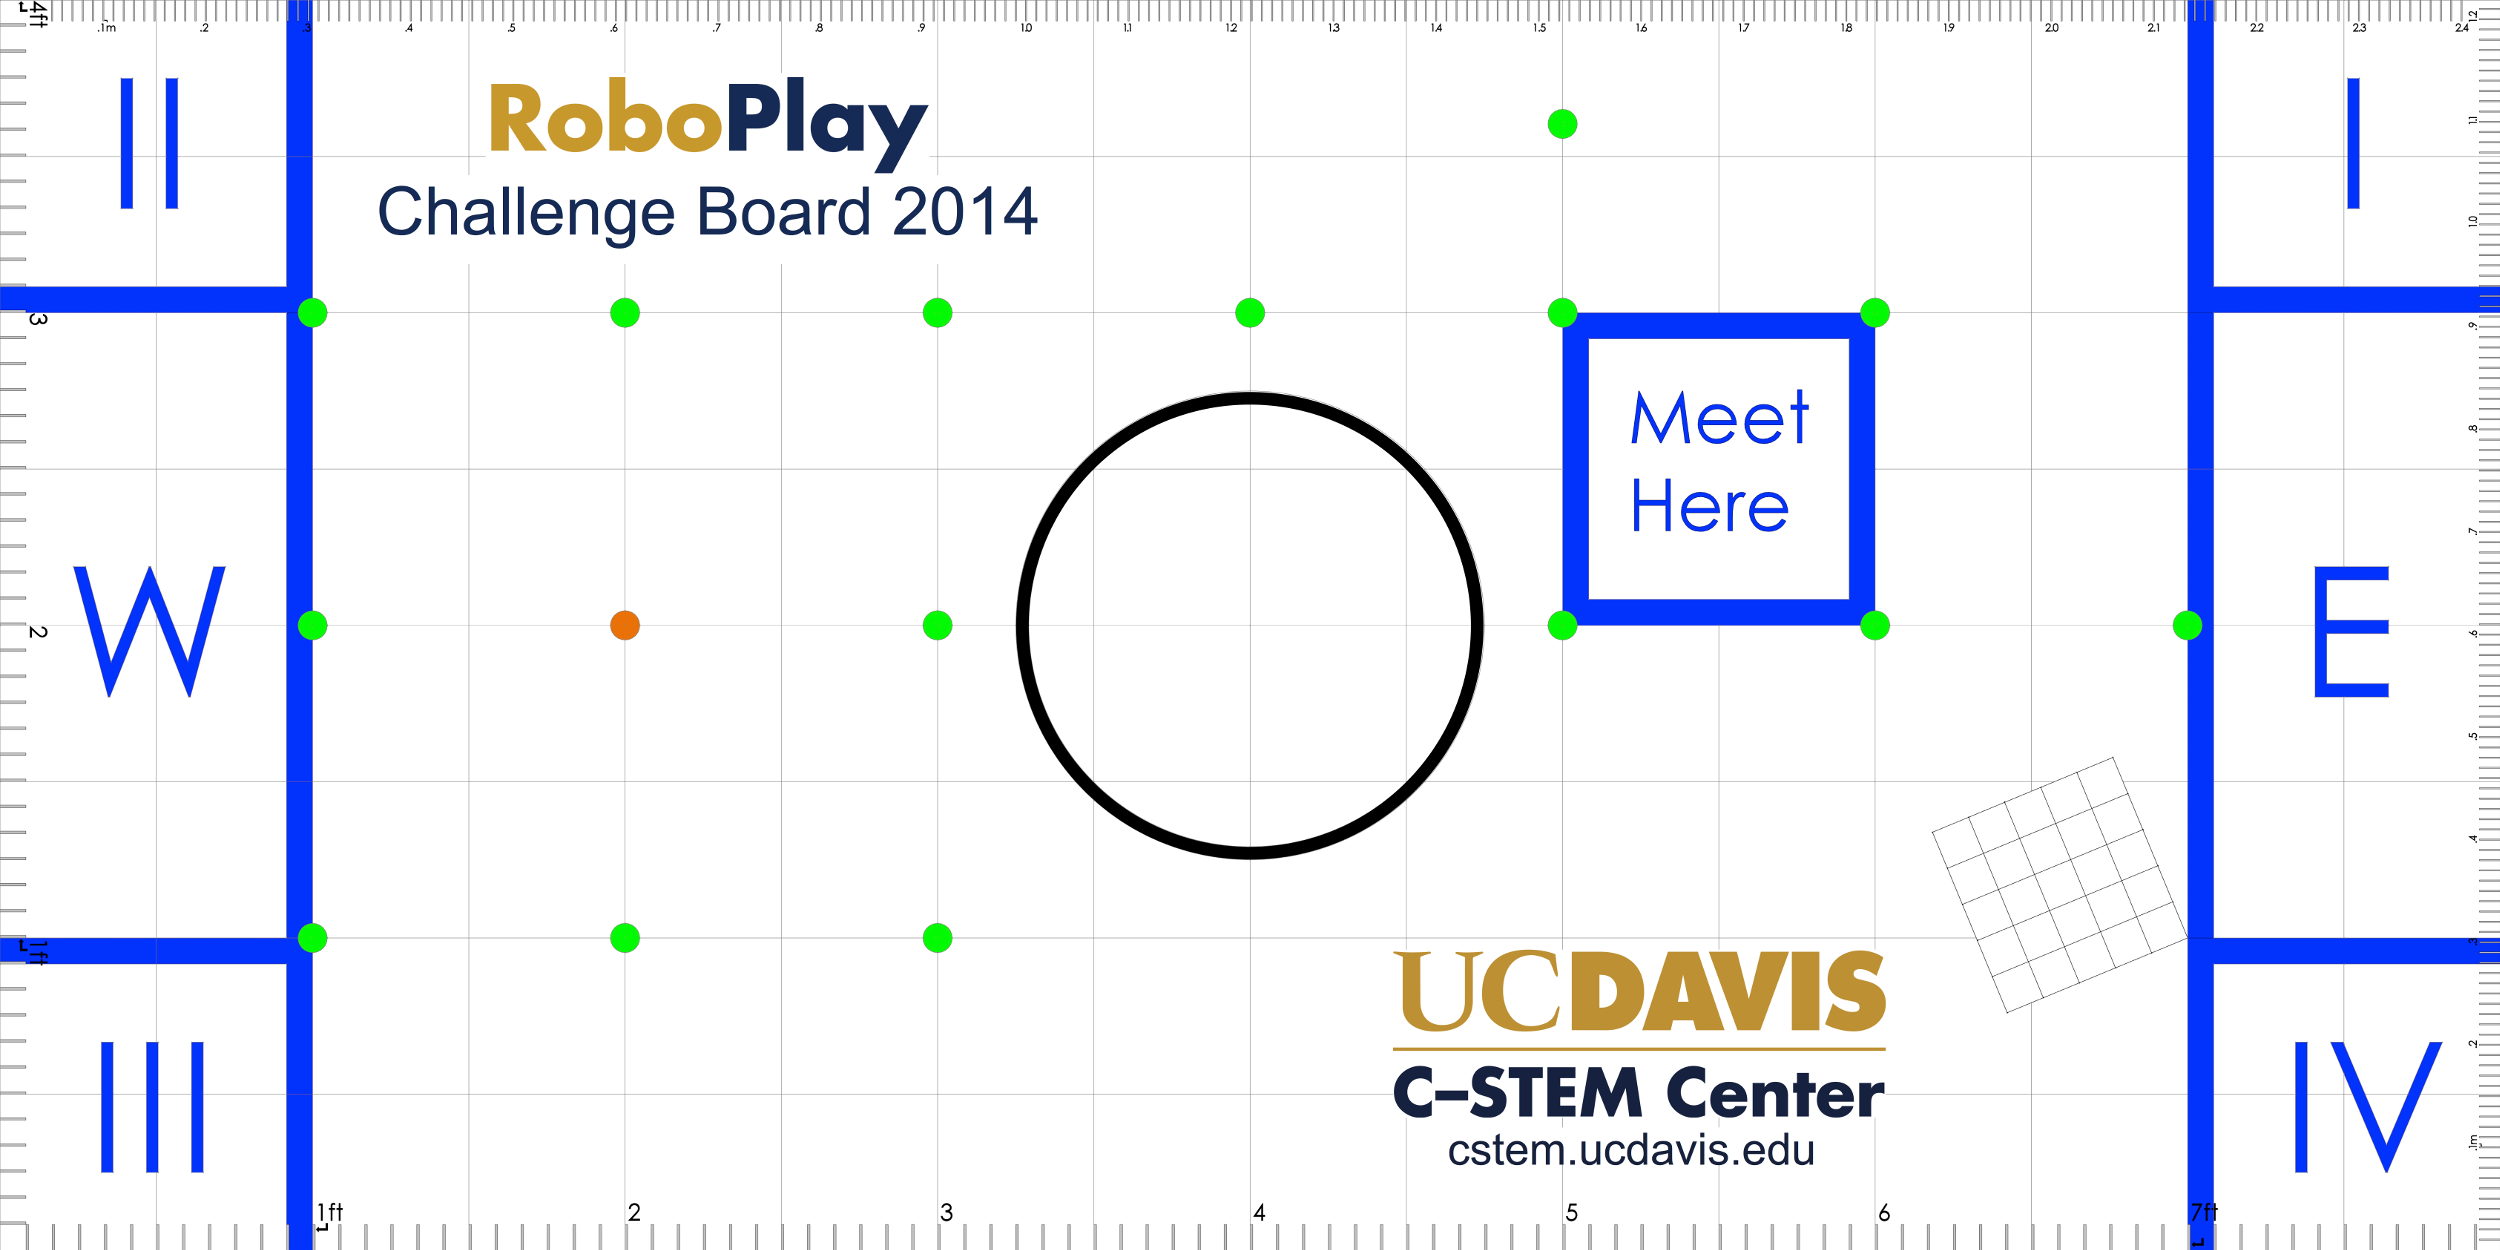
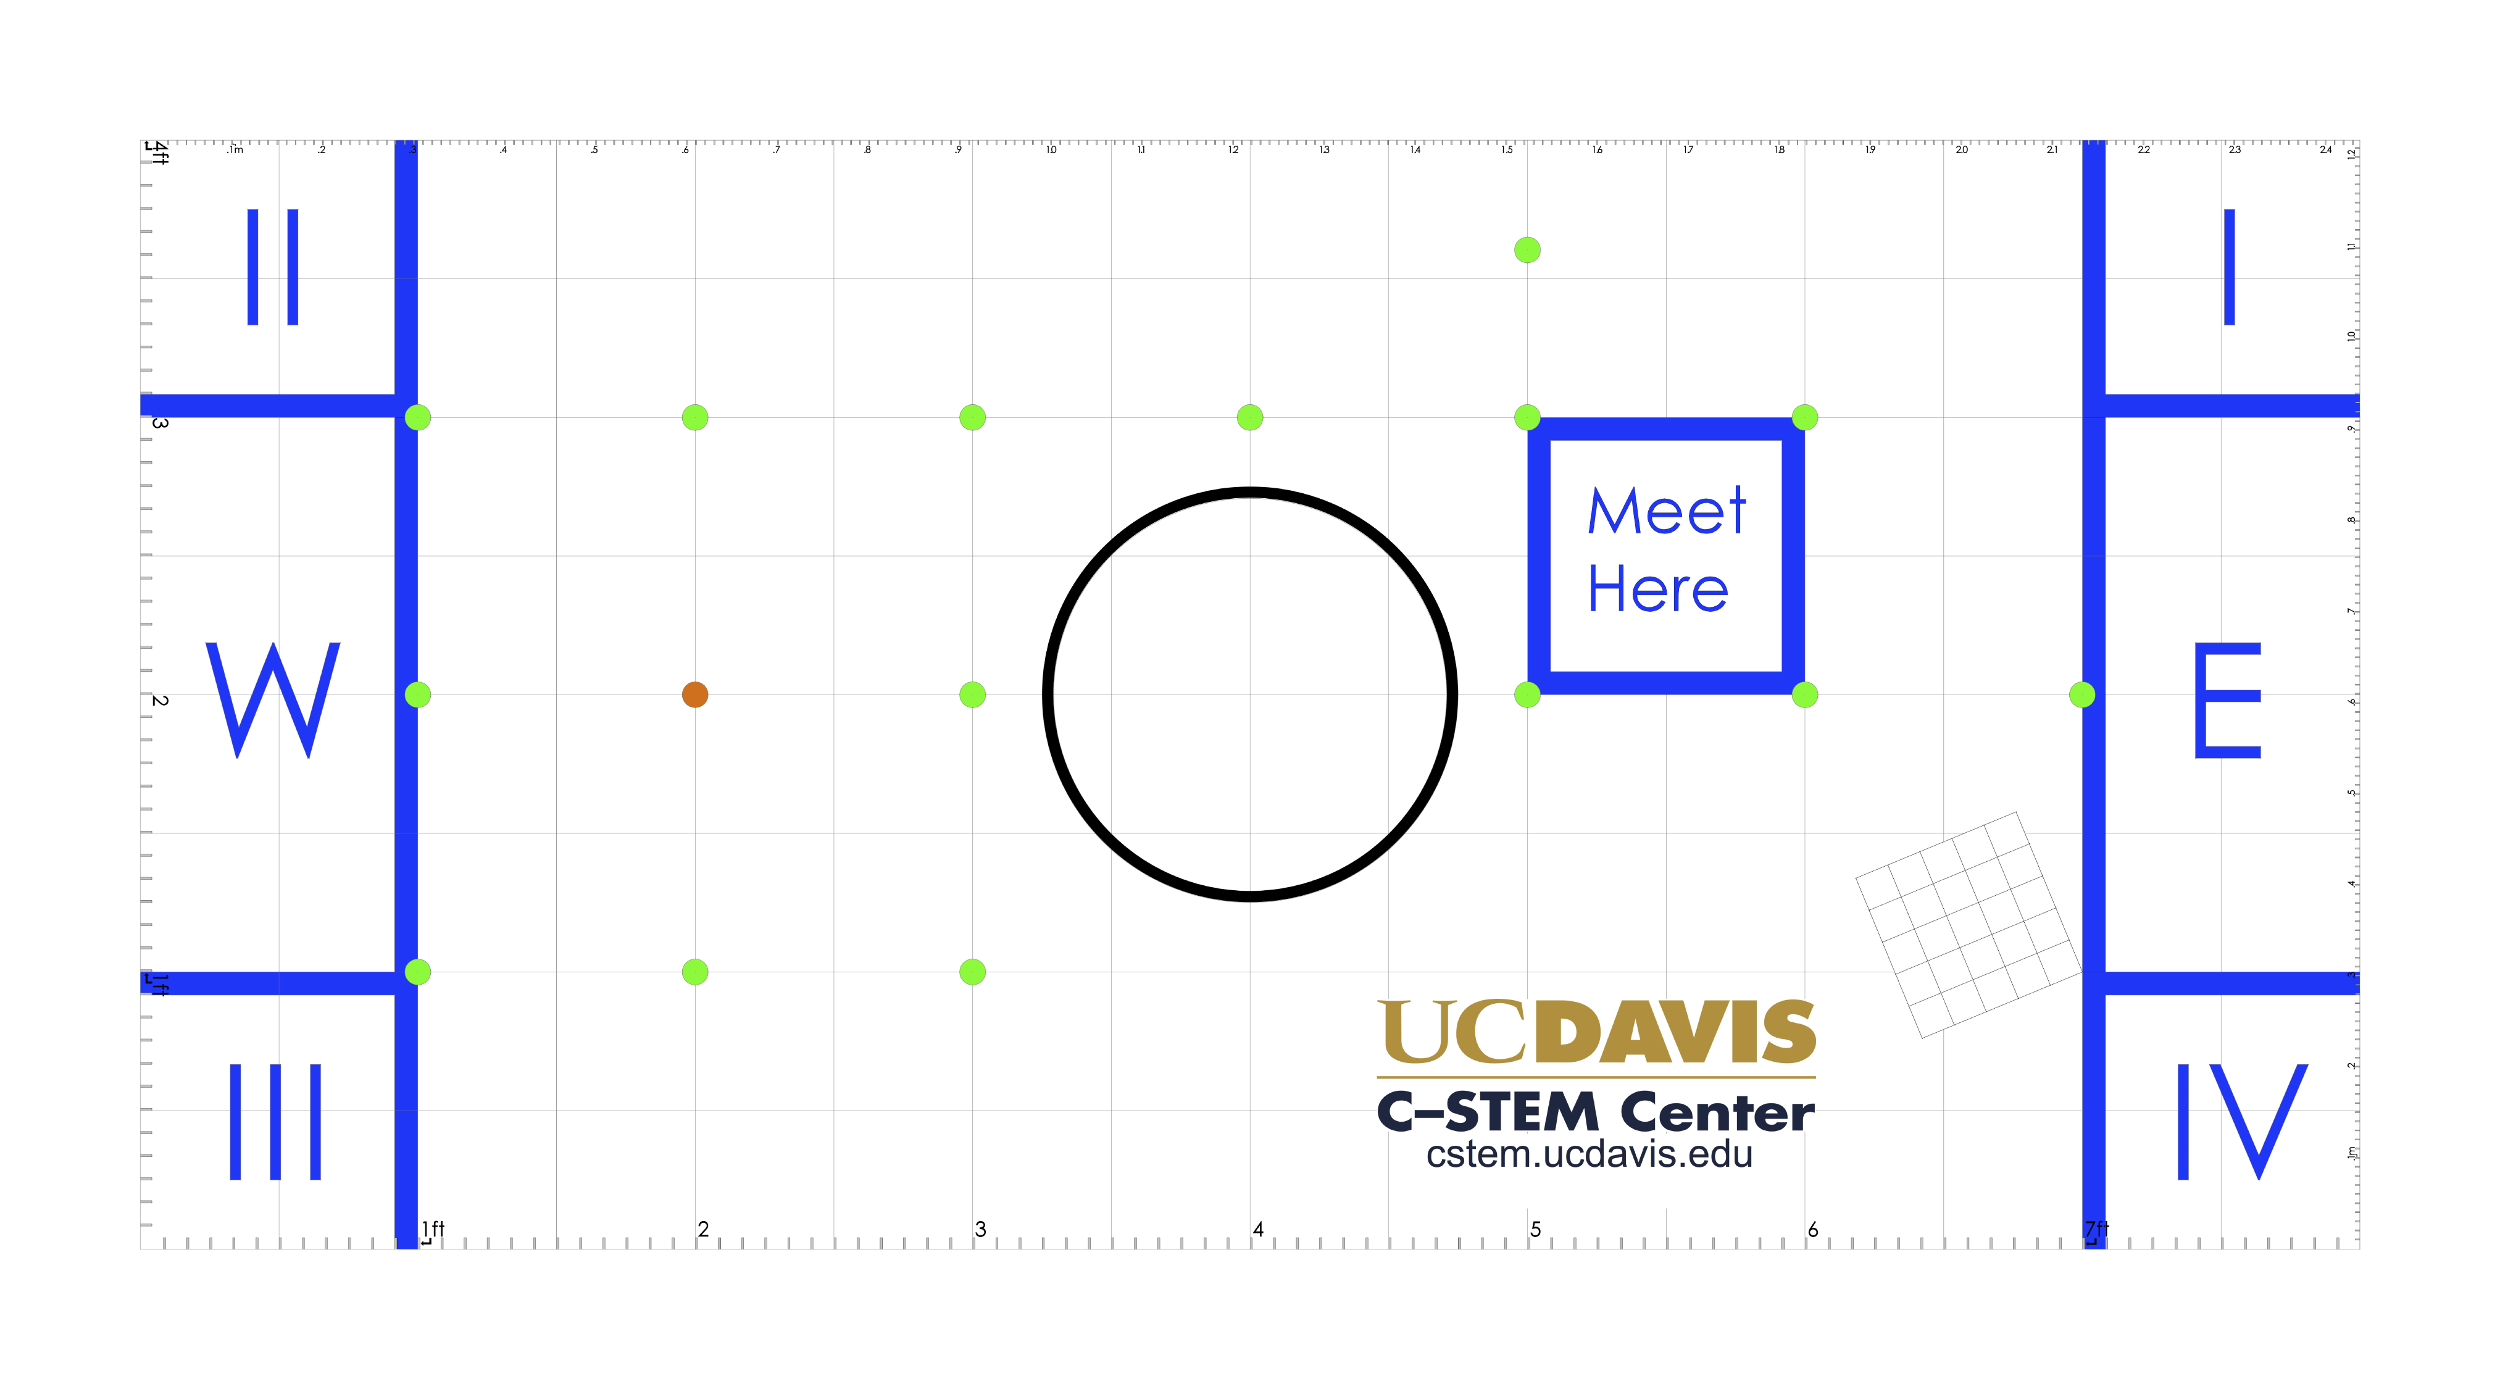
replace 2014RPC board with new one

diff --git a/src/rsScene/scene.cpp b/src/rsScene/scene.cpp
@@ -632,13 +632,13 @@ void Scene::setLevel(int level) {
 			this->draw_ground();
 			break;
 		case rs::Level::RPC2014:
-			this->draw_board(1.219, 0.610, 0, 0);
+			this->draw_board(1.372, 0.762, rs::IN2M(6), rs::IN2M(6));
 			break;
 		case rs::Level::RPC2015:
-			this->draw_board(1.219, 0.610, rs::IN2M(6), rs::IN2M(3));
+			this->draw_board(1.372, 0.762, rs::IN2M(6), rs::IN2M(6));
 			break;
 		case rs::Level::RPC2016:
-			this->draw_board(1.219, 0.610, 0, 0);
+			this->draw_board(1.372, 0.762, rs::IN2M(6), rs::IN2M(6));
 			break;
 	}
 
